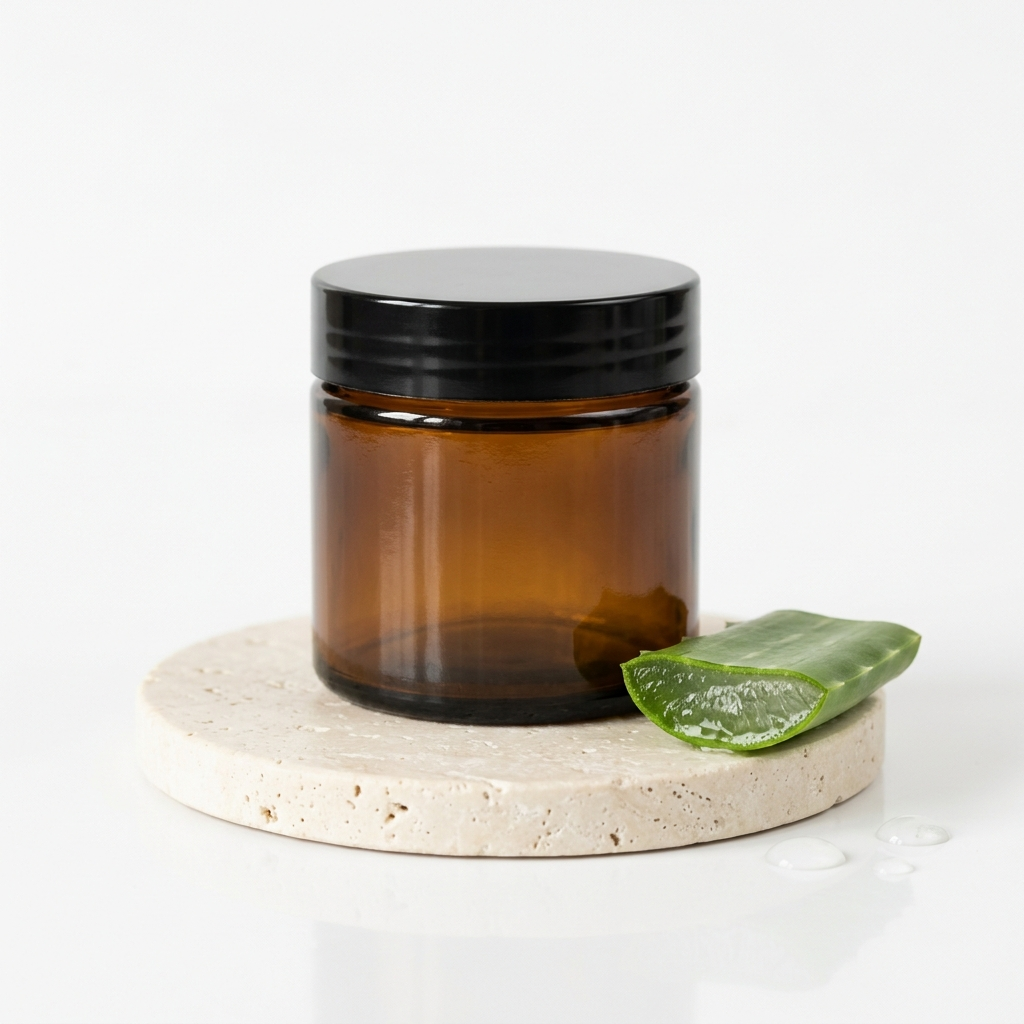
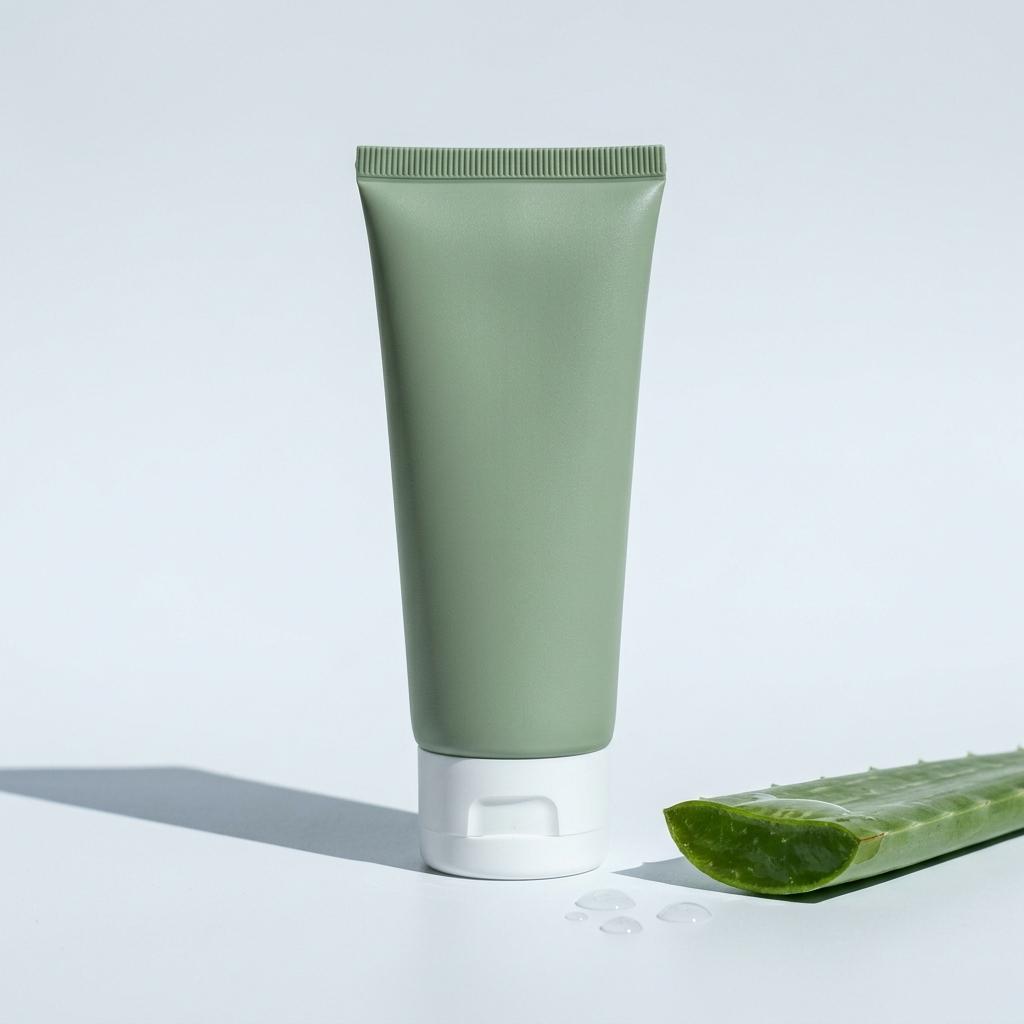
perf: panel gecikmesi icin uretime olcum kancasi
Panel sayfalari canlida 1.8 sn suruyor ama fonksiyon icinde olcebildigim is
sadece ~315 ms (auth 124 + iki sorgu ~190). Aradaki ~1200 ms'in nerede
gectigini TAHMIN etmek yerine uretimin kendisine soruyorum.

Iki kanca:

1) proxy -> Server-Timing basligi
   getUser() suresi her panel yanitinda "proxyauth;dur=<ms>" olarak
   donuyor. Proxy matcher yalnizca /panel/:path* oldugu icin /api/saglik
   proxy'den gecmiyor; ikisini karsilastirinca proxy'nin payi net cikiyor.

2) panel yerlesimi -> gizli olcum damgasi
   Yerlesim yanit basligi yazamiyor, bu yuzden HTML'e data-os-olcum
   niteligiyle "yerlesim=<ms> hizliyol=<evet|hayir>" yaziliyor.
   hizliyol, proxy'nin dogrulanmis kullaniciyi baslikla gecirip
   gecirmedigini soyluyor — gecirmiyorsa mevcutAdmin() yavas yola dusup
   Supabase'e IKINCI bir tur atiyor demektir.

Bu commit olcum icin; duzeltme olcum sonucuna gore gelecek.

diff --git a/src/app/panel/(korumali)/layout.tsx b/src/app/panel/(korumali)/layout.tsx
@@ -1,6 +1,8 @@
 import { redirect } from "next/navigation";
+import { headers } from "next/headers";
 import { sql } from "drizzle-orm";
 import { mevcutAdmin, cikisYap } from "@/actions/auth";
+import { BASLIK_KULLANICI_ID } from "@/lib/supabase/middleware";
 import { PanelNav } from "@/components/panel/PanelNav";
 import { db } from "@/db";
 import { sureliVeyaYedek } from "@/lib/db-sure";
@@ -32,12 +34,34 @@ export default async function PanelLayout({
 }: {
   children: React.ReactNode;
 }) {
+  /**
+   * ÖLÇÜM: aşağıdaki damga yanıt HTML'ine gizli bir yorum olarak yazılıyor.
+   * Yerleşim yanıt başlığı yazamıyor; süreyi başka türlü göremiyorduk.
+   * Proxy tarafı Server-Timing başlığıyla ölçülüyor — ikisi birlikte
+   * "sayfa neden 1.8 sn sürüyor" sorusunu tam olarak cevaplıyor.
+   */
+  const t0 = Date.now();
   // İkisi paralel: sayaç sorgusu kimlik doğrulamayı beklemesin.
-  const [admin, sayilar] = await Promise.all([mevcutAdmin(), bekleyenSayilar()]);
+  const [admin, sayilar, basliklar] = await Promise.all([
+    mevcutAdmin(),
+    bekleyenSayilar(),
+    headers(),
+  ]);
+  const yerlesimSuresi = Date.now() - t0;
   if (!admin) redirect("/panel/giris");
+
+  /**
+   * Proxy doğruladığı kullanıcıyı başlıkla geçiriyor mu? Geçirmiyorsa
+   * mevcutAdmin() yavaş yola düşüp Supabase'e İKİNCİ bir tur atıyor demektir.
+   */
+  const hizliYol = basliklar.get(BASLIK_KULLANICI_ID) ? "evet" : "hayir";
 
   return (
     <div className="min-h-dvh md:flex bg-notr-100">
+      <span
+        hidden
+        data-os-olcum={`yerlesim=${yerlesimSuresi} hizliyol=${hizliYol}`}
+      />
       <PanelNav bekleyenSiparis={sayilar.siparis} bekleyenYorum={sayilar.yorum} />
       <div className="flex-1 min-w-0 pb-24 md:pb-0">
         <header

diff --git a/src/lib/supabase/middleware.ts b/src/lib/supabase/middleware.ts
@@ -78,6 +78,15 @@ export async function oturumYenile(request: NextRequest) {
    */
   const oturumCereziVar = oturumCereziVarMi(request.cookies.getAll());
 
+  /**
+   * ÖLÇÜM: getUser() Supabase kimlik sunucusuna ağ üzerinden gidiyor ve bu
+   * PANEL İSTEĞİ BAŞINA bir kez oluyor. Süresi Server-Timing başlığıyla
+   * yanıta yazılıyor; tarayıcının ağ sekmesinden görülebilir.
+   *
+   * "Sayfa 1.8 sn sürüyor" bilgisi tek başına yetmiyordu — bu başlık,
+   * sürenin ne kadarının proxy'de geçtiğini kesin olarak söylüyor.
+   */
+  const t0 = Date.now();
   let user = null;
   try {
     const sonuc = await supabase.auth.getUser();
@@ -85,17 +94,26 @@ export async function oturumYenile(request: NextRequest) {
   } catch {
     user = null;
   }
+  const authSuresi = Date.now() - t0;
+
+  const olcumEkle = (r: NextResponse) => {
+    r.headers.set(
+      "Server-Timing",
+      `proxyauth;dur=${authSuresi};desc="supabase getUser"`,
+    );
+    return r;
+  };
 
   if (!giristeMi && !user && !oturumCereziVar) {
     const url = request.nextUrl.clone();
     url.pathname = "/panel/giris";
-    return NextResponse.redirect(url);
+    return olcumEkle(NextResponse.redirect(url));
   }
 
   if (giristeMi && user) {
     const url = request.nextUrl.clone();
     url.pathname = "/panel";
-    return NextResponse.redirect(url);
+    return olcumEkle(NextResponse.redirect(url));
   }
 
   // Doğrulanmış kullanıcıyı aşağı geçir: yerleşim tekrar sormasın.
@@ -105,5 +123,5 @@ export async function oturumYenile(request: NextRequest) {
     response = NextResponse.next({ request });
   }
 
-  return response;
+  return olcumEkle(response);
 }
